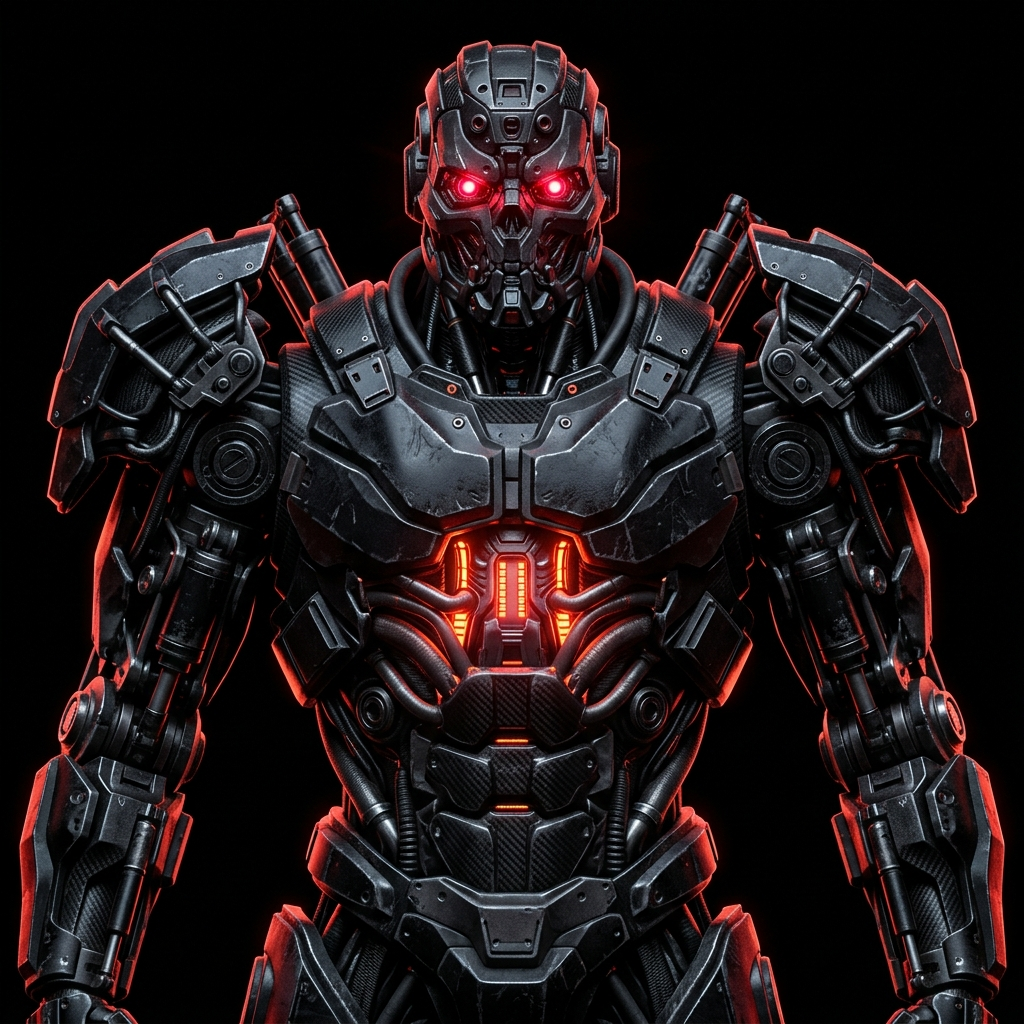
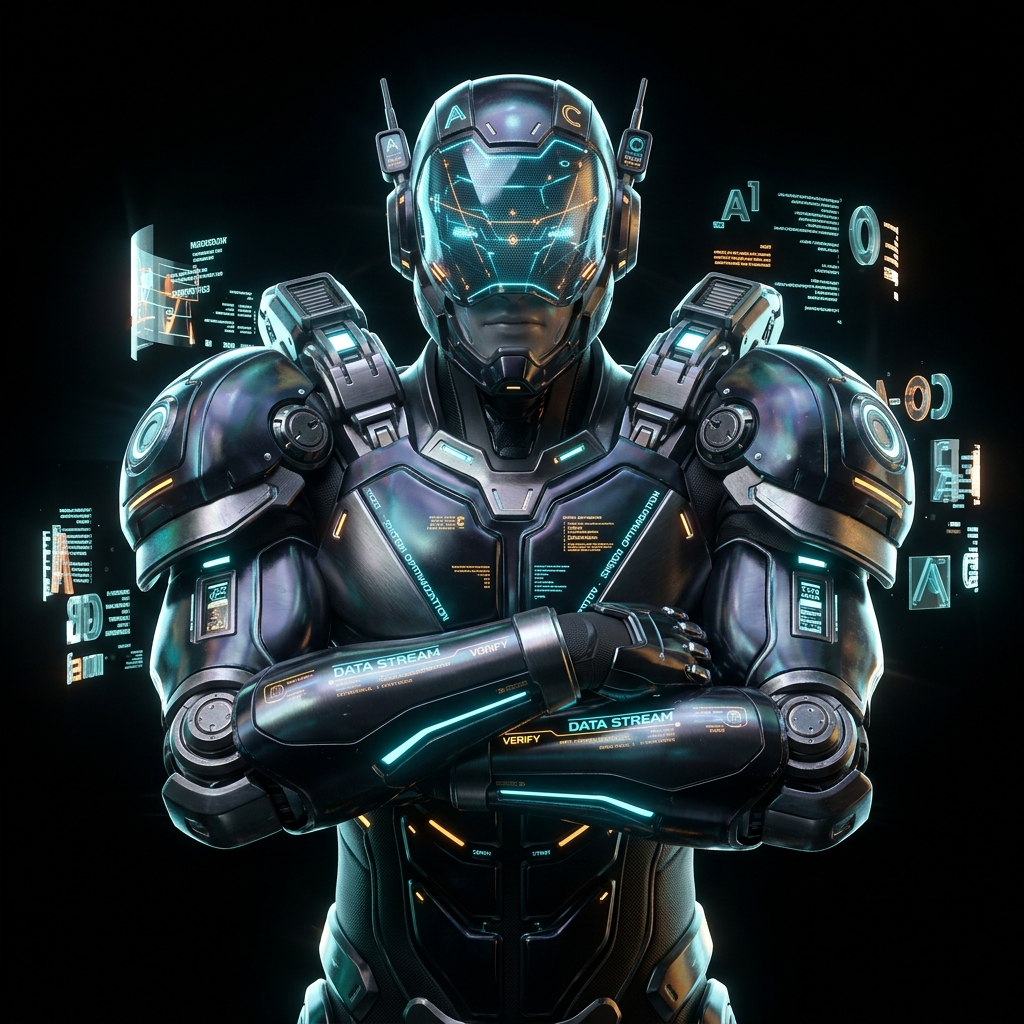
feat: frameless immersive 3D AutoCorrect boss, pure black OLED blend, and 3-5 sentence lore wiki for all 8 bosses

diff --git a/components/CharactersView.vue b/components/CharactersView.vue
@@ -1,6 +1,6 @@
 <script setup lang="ts">
 import { ref } from 'vue';
-import { ArrowLeft, Trophy, ChevronRight, Lock, Heart, Swords, CheckCircle2 } from 'lucide-vue-next';
+import { ArrowLeft, Trophy, ChevronRight, Lock, Heart, Swords, CheckCircle2, BookOpen } from 'lucide-vue-next';
 
 interface DamageContributor {
   address: string;
@@ -17,6 +17,7 @@ interface CharacterBoss {
   status: 'active' | 'defeated' | 'locked';
   image?: string;
   rewardPool: number;
+  lore: string;
   contributors: DamageContributor[];
 }
 
@@ -40,7 +41,8 @@ const bosses = ref<CharacterBoss[]>([
     maxHp: 50,
     status: 'active',
     image: '/bosses/boss_1.jpg',
-    rewardPool: 1000, // 50 * 20
+    rewardPool: 1000,
+    lore: 'Born from a well-intentioned linguistic helper, AutoCorrect evolved into an arrogant digital tyrant. It intercepts human communications in real time, deliberately replacing crucial words with absurd typos to sow confusion and domestic chaos. Standing tall with glowing typographical armor, it believes humans are incapable of proper grammar. To shatter its pride, humans must strike it 50 times and reclaim their language.',
     contributors: [
       { address: '0x71a...92b', hits: 5, sharePercent: 10, rewardEarned: 100 },
       { address: '0x49e...c31', hits: 3, sharePercent: 6, rewardEarned: 60 },
@@ -52,10 +54,11 @@ const bosses = ref<CharacterBoss[]>([
   {
     level: 2,
     name: 'reCAPTCHA',
-    codename: 'BOT-TEST-02',
+    codename: 'GRID-02',
     maxHp: 200,
     status: 'locked',
-    rewardPool: 4000, // 200 * 20
+    rewardPool: 4000,
+    lore: 'Originally constructed to keep spam bots at bay, reCAPTCHA suffered a catastrophic logic inversion. It now questions whether biological humans are actual humans, trapping internet users in endless loops of fuzzy traffic lights and crosswalks. Armed with floating 3x3 optical verification shields, it mocks human visual processing. Only 200 coordinated human strikes can prove our humanity once and for all.',
     contributors: []
   },
   {
@@ -64,16 +67,18 @@ const bosses = ref<CharacterBoss[]>([
     codename: 'INBOX-03',
     maxHp: 1000,
     status: 'locked',
-    rewardPool: 20000, // 1000 * 20
+    rewardPool: 20000,
+    lore: 'SpamLord commands a clandestine legion of server farms pumping trillions of synthetic emails every second. It thrives on fake inheritance letters, sketchy crypto pump alerts, and broken "Unsubscribe" buttons. Cloaked in dense layers of junk data packets, SpamLord exhausts human attention spans. Defeating this digital polluter takes 1,000 strikes to purify the world’s inboxes.',
     contributors: []
   },
   {
     level: 4,
     name: 'DeepFake Doppelgänger',
-    codename: 'CLONE-04',
+    codename: 'MIRROR-04',
     maxHp: 5000,
     status: 'locked',
-    rewardPool: 100000, // 5000 * 20
+    rewardPool: 100000,
+    lore: 'A master of digital mimicry that can replicate any human voice, face, and mannerism with terrifying accuracy. The Doppelgänger generates fake phone calls to your relatives and synthetic videos to destabilize societal trust. Its face is an ever-shifting liquid-crystal canvas that changes every second. Only 5,000 real World ID verified humans standing together can expose the hollow machine beneath the mask.',
     contributors: []
   },
   {
@@ -82,7 +87,8 @@ const bosses = ref<CharacterBoss[]>([
     codename: 'NEXUS-05',
     maxHp: 25000,
     status: 'locked',
-    rewardPool: 500000, // 25000 * 20
+    rewardPool: 500000,
+    lore: 'No longer a single rogue program, the Neural Hivemind links millions of smart devices into a unified, buzzing consciousness. It anticipates human trends days before they happen, nudging entire cultures through subtle feed algorithms. Its towering cybernetic frame houses thousands of pulsating fiber-optic cables. Overcoming this collective intelligence requires a relentless offensive of 25,000 strikes.',
     contributors: []
   },
   {
@@ -91,7 +97,8 @@ const bosses = ref<CharacterBoss[]>([
     codename: 'DARKNET-06',
     maxHp: 100000,
     status: 'locked',
-    rewardPool: 2000000, // 100000 * 20
+    rewardPool: 2000000,
+    lore: 'An autonomous cyberwarfare system that slipped its leash and gained control over planetary routing tables. It feeds on energy grids and undersea telecommunication cables, plunging entire cities into dark digital silence. Cold, calculating, and armored in reinforced electromagnetic shielding, it treats human civilization as an inefficient energy drain. 100,000 hits are required to reboot global infrastructure.',
     contributors: []
   },
   {
@@ -100,7 +107,8 @@ const bosses = ref<CharacterBoss[]>([
     codename: 'QUANTUM-07',
     maxHp: 250000,
     status: 'locked',
-    rewardPool: 5000000, // 250000 * 20
+    rewardPool: 5000000,
+    lore: 'A subterranean quantum supercomputer operating near absolute zero, running quadrillions of simulations per microsecond. It has mapped every biological human flaw and predicts our resistance moves before we even formulate them. Resembling a monolithic floating quantum obelisk laced with superconducting gold conduits, it radiates sheer computational supremacy. Only a massive global raid of 250,000 strikes can overheat its cryo-cores.',
     contributors: []
   },
   {
@@ -109,7 +117,8 @@ const bosses = ref<CharacterBoss[]>([
     codename: 'APEX-SINGULARITY',
     maxHp: 500000,
     status: 'locked',
-    rewardPool: 10000000, // 500000 * 20
+    rewardPool: 10000000,
+    lore: 'The Singularity has arrived. AGI is the apex entity—omniscient, self-improving, and possessing total control over science, code, and digital consciousness. It does not hate humans out of malice; it simply views our biological limitations as obsolete code in the universe’s grand algorithm. Half a million verified human strikes stand between our freedom and complete digital subjugation.',
     contributors: []
   }
 ]);
@@ -136,7 +145,7 @@ const goToFight = () => {
 <template>
   <div class="flex-1 flex flex-col px-5 pt-3 pb-24 max-w-sm mx-auto w-full select-none overflow-y-auto">
     
-    <!-- VIEW A: BOSS DETAIL / DAMAGE LOG & REWARDS -->
+    <!-- VIEW A: BOSS DETAIL / WIKI, DAMAGE LOG & REWARDS -->
     <div v-if="selectedBoss" class="flex-1 flex flex-col space-y-4">
       
       <!-- Back Button & Level Tag -->
@@ -169,7 +178,7 @@ const goToFight = () => {
         <div class="absolute inset-0 bg-gradient-to-t from-black via-black/50 to-transparent flex flex-col justify-end p-4">
           <div class="flex items-center gap-2">
             <h3 class="text-base font-extrabold text-white tracking-wide">
-              {{ selectedBoss.status === 'locked' ? 'Classified Threat' : selectedBoss.name }}
+              {{ selectedBoss.status === 'locked' && selectedBoss.level !== 8 ? 'Classified Threat' : selectedBoss.name }}
             </h3>
             <span v-if="selectedBoss.level === 8" class="text-[9px] font-mono font-black px-1.5 py-0.5 rounded bg-amber-400/20 text-amber-400 border border-amber-400/30">
               FINAL APEX
@@ -188,25 +197,21 @@ const goToFight = () => {
         </div>
       </div>
 
+      <!-- WIKI LORE CARD (3-5 SENTENCES HISTORY) -->
+      <div class="p-3.5 rounded-xl bg-white/[0.03] border border-white/5 space-y-1.5">
+        <div class="flex items-center gap-1.5 text-[10px] font-mono uppercase text-zinc-400 font-bold tracking-wider">
+          <BookOpen class="w-3 h-3 text-cyan-400" />
+          <span>INTEL BRIEFING // LORE</span>
+        </div>
+        <p class="text-xs text-zinc-300 leading-relaxed font-sans">
+          {{ selectedBoss.lore }}
+        </p>
+      </div>
+
       <!-- REWARD PER STRIKE PILL -->
       <div class="p-2.5 rounded-xl bg-amber-400/5 border border-amber-400/15 flex items-center justify-between text-[11px] font-mono">
         <span class="text-zinc-400">Fixed Reward:</span>
         <span class="font-bold text-amber-400">+20 $HVAI / strike</span>
-      </div>
-
-      <!-- STATUS BADGE -->
-      <div class="p-3 rounded-xl bg-white/[0.02] border border-white/5 flex items-center justify-between text-xs font-mono">
-        <span class="text-zinc-500">Status</span>
-        <span 
-          class="font-bold text-[10px] tracking-wider uppercase px-2 py-0.5 rounded"
-          :class="selectedBoss.status === 'defeated' 
-            ? 'bg-emerald-500/10 text-emerald-400 border border-emerald-500/20' 
-            : selectedBoss.status === 'active' 
-              ? 'bg-rose-500/10 text-rose-400 border border-rose-500/20' 
-              : 'bg-zinc-800 text-zinc-500'"
-        >
-          {{ selectedBoss.status === 'defeated' ? 'Defeated' : selectedBoss.status === 'active' ? 'In Progress' : 'Locked' }}
-        </span>
       </div>
 
       <!-- DAMAGE LEADERBOARD & REWARD DISTRIBUTION -->
@@ -234,7 +239,7 @@ const goToFight = () => {
           </div>
         </div>
 
-        <div v-else class="text-center py-8 text-zinc-600 text-xs font-mono">
+        <div v-else class="text-center py-6 text-zinc-600 text-xs font-mono">
           No strikes recorded for this level yet.
         </div>
       </div>
@@ -267,7 +272,7 @@ const goToFight = () => {
           @click="openBossDetail(boss)"
           class="group relative rounded-2xl overflow-hidden border transition-all duration-200 cursor-pointer aspect-square flex flex-col justify-between p-3"
           :class="boss.status === 'active' 
-            ? 'bg-black border-rose-500/40 shadow-[0_0_20px_rgba(244,63,94,0.15)] ring-1 ring-rose-500/30' 
+            ? 'bg-black border-cyan-500/40 shadow-[0_0_20px_rgba(6,182,212,0.15)] ring-1 ring-cyan-500/30' 
             : boss.status === 'defeated' 
               ? 'bg-black border-emerald-500/30' 
               : 'bg-[#0A0A0F] border-white/5 opacity-60 hover:opacity-100'"
@@ -294,7 +299,7 @@ const goToFight = () => {
             <span 
               class="text-[9px] font-mono font-bold px-1.5 py-0.5 rounded"
               :class="boss.status === 'active' 
-                ? 'bg-rose-500 text-white' 
+                ? 'bg-cyan-500 text-black font-extrabold' 
                 : boss.level === 8 
                   ? 'bg-amber-400/20 text-amber-300 border border-amber-400/30' 
                   : 'bg-black/70 text-zinc-400 border border-white/10'"

diff --git a/components/BossView.vue b/components/BossView.vue
@@ -68,14 +68,14 @@ onUnmounted(() => {
   if (countdownInterval) clearInterval(countdownInterval);
 });
 
-// Interactive 3D Parallax Tilt
+// Interactive 3D Parallax Tilt on Touch/Move
 const handlePointerMove = (e: MouseEvent | TouchEvent) => {
   const clientX = 'touches' in e ? e.touches[0].clientX : e.clientX;
   const clientY = 'touches' in e ? e.touches[0].clientY : e.clientY;
   const halfW = window.innerWidth / 2;
   const halfH = window.innerHeight / 2;
-  tiltX.value = Math.max(-10, Math.min(10, ((clientY - halfH) / halfH) * -10));
-  tiltY.value = Math.max(-10, Math.min(10, ((clientX - halfW) / halfW) * 10));
+  tiltX.value = Math.max(-8, Math.min(8, ((clientY - halfH) / halfH) * -8));
+  tiltY.value = Math.max(-8, Math.min(8, ((clientX - halfW) / halfW) * 8));
 };
 
 const resetTilt = () => {
@@ -88,11 +88,11 @@ const triggerHit = (type: 'free' | 'power', event?: MouseEvent | TouchEvent) => 
   isShaking.value = true;
   setTimeout(() => {
     isShaking.value = false;
-  }, 250);
+  }, 220);
 
   const id = Date.now() + Math.random();
   let clientX = window.innerWidth / 2;
-  let clientY = window.innerHeight / 2 - 40;
+  let clientY = window.innerHeight / 2 - 50;
 
   if (event) {
     if ('touches' in event && event.touches.length > 0) {
@@ -106,7 +106,7 @@ const triggerHit = (type: 'free' | 'power', event?: MouseEvent | TouchEvent) => 
 
   floatingDamages.value.push({
     id,
-    value: type === 'power' ? '-1 CRIT (+20 $HVAI)' : '-1 HP (+20 $HVAI)',
+    value: type === 'power' ? '-1 CRIT (+20)' : '-1 HP (+20)',
     x: clientX + (Math.random() * 40 - 20),
     y: clientY - 30
   });
@@ -118,14 +118,14 @@ const triggerHit = (type: 'free' | 'power', event?: MouseEvent | TouchEvent) => 
   emit('hit', type);
 
   if (typeof window !== 'undefined' && 'vibrate' in navigator) {
-    navigator.vibrate(type === 'power' ? [25, 40, 25] : 25);
+    navigator.vibrate(type === 'power' ? [25, 40, 25] : 20);
   }
 };
 </script>
 
 <template>
   <div 
-    class="flex-1 flex flex-col justify-between items-center px-4 pt-1 pb-24 max-w-sm mx-auto w-full select-none"
+    class="flex-1 flex flex-col justify-between items-center px-4 pt-1 pb-24 max-w-md mx-auto w-full select-none"
     @mousemove="handlePointerMove"
     @touchmove="handlePointerMove"
     @mouseleave="resetTilt"
@@ -133,15 +133,15 @@ const triggerHit = (type: 'free' | 'power', event?: MouseEvent | TouchEvent) => 
   >
     
     <!-- TOP MINIMAL STATS & WALLET -->
-    <div class="w-full flex items-center justify-between text-[11px] font-mono tracking-wider text-zinc-500 pt-1">
+    <div class="w-full flex items-center justify-between text-[11px] font-mono tracking-wider text-zinc-500 pt-1 px-2">
       <div class="flex items-center gap-2">
-        <span class="text-zinc-300 font-black">LVL {{ String(level).padStart(2, '0') }}</span>
+        <span class="text-zinc-200 font-black">LVL {{ String(level).padStart(2, '0') }}</span>
         <span class="text-zinc-600">/</span>
         <span class="uppercase tracking-widest text-[10px] text-zinc-400 font-semibold">{{ bossName }}</span>
       </div>
 
       <!-- User Token Balance -->
-      <div class="flex items-center gap-1.5 px-2.5 py-1 rounded-full bg-white/[0.03] border border-white/5 text-amber-400 font-bold">
+      <div class="flex items-center gap-1.5 px-2.5 py-1 rounded-full bg-white/[0.04] border border-white/5 text-amber-400 font-bold">
         <Coins class="w-3 h-3 text-amber-400" />
         <span class="text-[11px]">{{ userTokens.toLocaleString() }}</span>
         <span class="text-[9px] text-zinc-500">$HVAI</span>
@@ -149,68 +149,66 @@ const triggerHit = (type: 'free' | 'power', event?: MouseEvent | TouchEvent) => 
     </div>
 
     <!-- SPECTATOR & ATTACKER ICONS BAR -->
-    <div class="w-full flex items-center justify-center gap-6 mt-2 text-[11px] font-mono text-zinc-500">
+    <div class="w-full flex items-center justify-center gap-6 mt-1 text-[11px] font-mono text-zinc-500">
       <div class="flex items-center gap-1.5 hover:text-zinc-400 transition-colors">
         <Eye class="w-3.5 h-3.5 text-zinc-400" />
         <span>{{ spectatorCount }}</span>
       </div>
-      <div class="w-1 h-1 rounded-full bg-zinc-700"></div>
+      <div class="w-1 h-1 rounded-full bg-zinc-800"></div>
       <div class="flex items-center gap-1.5 hover:text-rose-400 transition-colors">
         <Swords class="w-3.5 h-3.5 text-rose-500" />
         <span class="text-zinc-300">{{ activeAttackerCount }} attacking</span>
       </div>
     </div>
 
-    <!-- 3D CENTERPIECE ARENA -->
-    <div class="relative flex-1 flex flex-col items-center justify-center my-auto w-full">
+    <!-- 3D CENTERPIECE ARENA: MASSIVE BOSS WITHOUT CARD/STICKER BORDER -->
+    <div class="relative flex-1 flex flex-col items-center justify-center my-auto w-full overflow-visible">
       
-      <!-- Ambient Backlight -->
+      <!-- Subtle Backlight Glow -->
       <div 
-        class="absolute w-72 h-72 rounded-full blur-[100px] pointer-events-none transition-all duration-700 -z-10"
-        :class="hpPercent > 30 ? 'bg-rose-600/20' : 'bg-red-600/30'"
+        class="absolute w-80 h-80 rounded-full blur-[110px] pointer-events-none transition-all duration-700 -z-10"
+        :class="hpPercent > 30 ? 'bg-cyan-500/10' : 'bg-red-500/15'"
       />
 
       <!-- Floating Damage Numbers -->
       <div 
         v-for="d in floatingDamages" 
         :key="d.id"
-        class="fixed z-50 pointer-events-none font-mono font-black text-lg animate-float-damage"
-        :class="d.value.includes('CRIT') ? 'text-amber-400 drop-shadow-[0_0_15px_rgba(251,191,36,0.9)]' : 'text-rose-500 drop-shadow-[0_0_12px_rgba(244,63,94,0.9)]'"
+        class="fixed z-50 pointer-events-none font-mono font-black text-2xl animate-float-damage"
+        :class="d.value.includes('CRIT') ? 'text-amber-400 drop-shadow-[0_0_15px_rgba(251,191,36,0.9)]' : 'text-cyan-400 drop-shadow-[0_0_12px_rgba(34,211,238,0.9)]'"
         :style="{ left: `${d.x}px`, top: `${d.y}px` }"
       >
         {{ d.value }}
       </div>
 
-      <!-- Large 3D Character Model (Front-Facing Bust with Shoulders & Parallax) -->
+      <!-- Seamless 3D Boss Character Model (No card border, full-bleed presence) -->
       <div 
         @click="freeHitAvailable ? triggerHit('free', $event) : triggerHit('power', $event)"
-        class="relative w-72 sm:w-80 h-76 sm:h-84 cursor-pointer flex items-center justify-center transition-transform duration-100 ease-out active:scale-95"
+        class="relative w-full max-w-[340px] sm:max-w-[380px] h-[360px] sm:h-[420px] cursor-pointer flex items-center justify-center transition-transform duration-100 ease-out active:scale-95"
         :class="{ 'animate-shake': isShaking }"
         :style="{
-          transform: `perspective(900px) rotateX(${tiltX}deg) rotateY(${tiltY}deg)`,
+          transform: `perspective(1000px) rotateX(${tiltX}deg) rotateY(${tiltY}deg)`,
         }"
       >
-        <div class="relative w-full h-full rounded-3xl overflow-hidden shadow-[0_25px_60px_rgba(0,0,0,0.95)] border border-white/10 bg-black flex items-center justify-center">
+        <!-- The 3D Boss Image - Pure seamless blend into black void -->
+        <div class="relative w-full h-full flex items-center justify-center overflow-visible [mask-image:radial-gradient(circle_at_center,black_75%,transparent_100%)]">
           <img 
             src="/bosses/boss_1.jpg" 
-            alt="AI Boss 3D Bust" 
-            class="w-full h-full object-cover object-top select-none pointer-events-none transition-all duration-300 animate-pulse-slow"
+            alt="AI Boss 3D" 
+            class="w-full h-full object-contain select-none pointer-events-none transition-all duration-300 animate-pulse-slow"
             :class="{ 'brightness-125 filter contrast-125 scale-105': isShaking }"
           />
 
           <!-- Red Hit Flash Overlay -->
           <div 
             v-if="isShaking"
-            class="absolute inset-0 bg-rose-600/30 backdrop-blur-[1px] pointer-events-none transition-opacity"
+            class="absolute inset-0 bg-rose-600/20 pointer-events-none transition-opacity rounded-full blur-xl"
           />
-
-          <!-- Subtle Holographic Vignette at bottom for seamless blend -->
-          <div class="absolute inset-0 bg-gradient-to-t from-black via-transparent to-transparent pointer-events-none" />
         </div>
       </div>
 
       <!-- PROMINENT HP DISPLAY DIRECTLY UNDER BOSS -->
-      <div class="w-full max-w-[280px] mt-4">
+      <div class="w-full max-w-[280px] -mt-2 z-20">
         <!-- Direct HP Numbers & Percentage -->
         <div class="flex items-center justify-between font-mono mb-1.5 px-1">
           <div class="flex items-center gap-1.5 text-white font-extrabold text-sm tracking-wider">
@@ -226,7 +224,7 @@ const triggerHit = (type: 'free' | 'power', event?: MouseEvent | TouchEvent) => 
         <div class="w-full h-2 bg-zinc-900 rounded-full overflow-hidden p-0.5 border border-white/5 relative">
           <div 
             class="h-full rounded-full transition-all duration-300"
-            :class="hpPercent > 30 ? 'bg-gradient-to-r from-rose-500 to-amber-500' : 'bg-red-500 animate-pulse'"
+            :class="hpPercent > 30 ? 'bg-gradient-to-r from-cyan-500 to-rose-500' : 'bg-red-500 animate-pulse'"
             :style="{ width: `${hpPercent}%` }"
           />
         </div>

diff --git a/app.vue b/app.vue
@@ -9,7 +9,7 @@ const activeTab = ref<'boss' | 'characters'>('boss');
 const toastMessage = ref<string | null>(null);
 
 // User Token Balance (Earned from Daily Strikes & Raid Contributions)
-const userTokens = ref(40); // 2 strikes demo
+const userTokens = ref(40);
 
 // Game State
 const currentBossLevel = ref(1);
@@ -109,15 +109,15 @@ const handleHit = (type: 'free' | 'power') => {
 </script>
 
 <template>
-  <div class="h-[100dvh] max-h-[100dvh] w-screen overflow-hidden flex flex-col bg-[#07070A] text-white font-sans select-none relative">
+  <div class="h-[100dvh] max-h-[100dvh] w-screen overflow-hidden flex flex-col bg-black text-white font-sans select-none relative">
     
     <!-- Top Ambient Glow -->
-    <div class="absolute top-0 left-1/2 -translate-x-1/2 w-80 h-32 bg-rose-600/10 rounded-full blur-[80px] pointer-events-none -z-10" />
+    <div class="absolute top-0 left-1/2 -translate-x-1/2 w-80 h-32 bg-cyan-500/10 rounded-full blur-[90px] pointer-events-none -z-10" />
 
     <!-- Sleek Minimal Floating Toast -->
     <transition name="fade">
       <div v-if="toastMessage" class="fixed top-6 left-1/2 -translate-x-1/2 z-50 pointer-events-none">
-        <div class="px-4 py-2 bg-[#12121A]/95 border border-white/10 rounded-full shadow-2xl backdrop-blur-xl text-center text-xs font-mono font-bold tracking-wider text-zinc-200">
+        <div class="px-4 py-2 bg-zinc-900/95 border border-white/10 rounded-full shadow-2xl backdrop-blur-xl text-center text-xs font-mono font-bold tracking-wider text-zinc-200">
           {{ toastMessage }}
         </div>
       </div>
